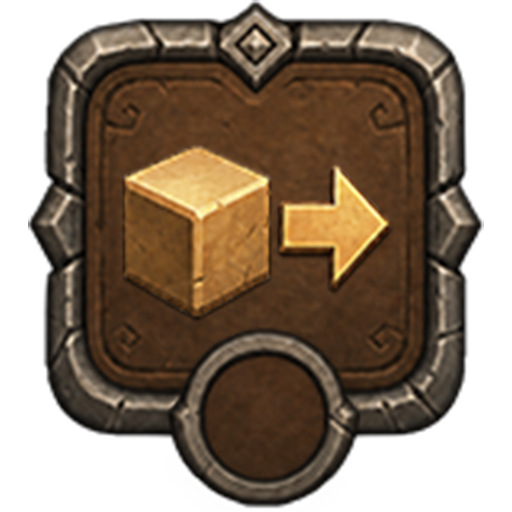
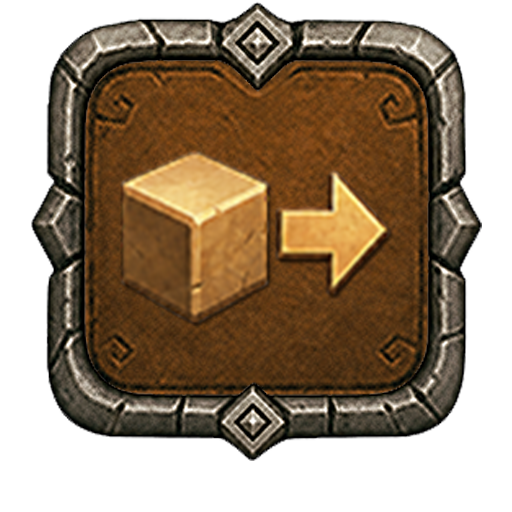
up

diff --git a/index.html b/index.html
@@ -122,7 +122,7 @@
   <img id="splash-icon" src="" alt="" />
   <div id="splash-title">Elemental Blocks</div>
   <div id="splash-bar-wrap"><div id="splash-bar"></div></div>
-  <div id="splash-version">v0.21.4</div>
+  <div id="splash-version">v0.22.1</div>
 </div>
 <script>
   (function() {
@@ -198,6 +198,13 @@
   <div class="controls-right">
     <button class="control-btn" id="dropBtn" aria-label="Drop">▼</button>
     <button class="control-btn" id="rotateBtn" aria-label="Rotate">⟳</button>
+  </div>
+  <!-- KZ Drop booster (standalone killzone-lowering, all modes) -->
+  <div class="kzdrop-wrap">
+    <button class="kzdrop-btn empty" id="kzDropBtn" type="button" aria-label="KZ Drop" title="KZ Drop">
+      <span class="kzdrop-icon">💧</span>
+      <span class="kzdrop-charges"></span>
+    </button>
   </div>
   <!-- Magic buttons -->
   <div class="color-row" id="magicRow" aria-label="Magic">